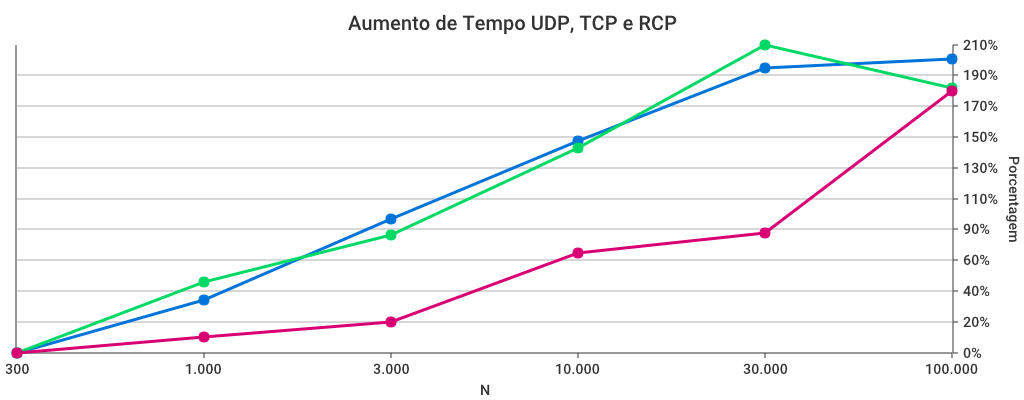
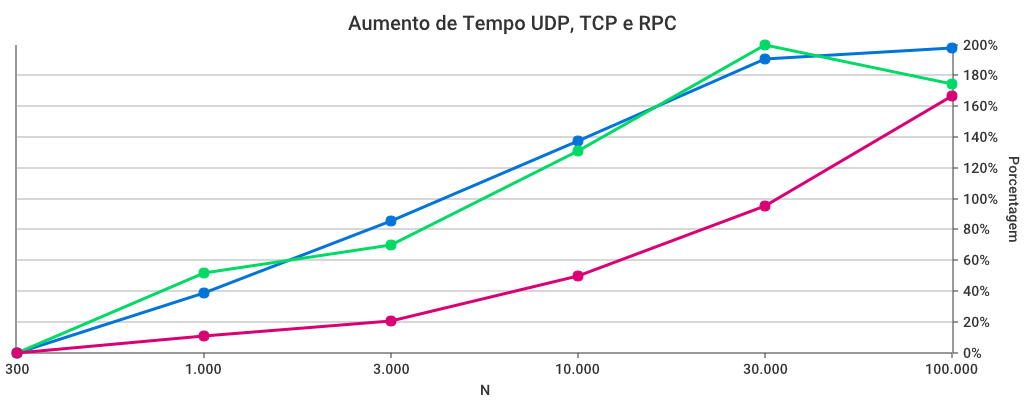
fix: Nome errado nos gráficos

diff --git a/exercicio4/graphs/graph.go b/exercicio4/graphs/graph.go
@@ -25,7 +25,7 @@ func Run() {
 	fmt.Print("Choose how many iterations: ")
 	fmt.Scan(&iterations)
 
-	names := []string{"UDP", "TCP", "RCP"}
+	names := []string{"UDP", "TCP", "RPC"}
 	//functions := []func(int, string) ([]int, time.Duration){client.sendMessageUDP, client.sendMessageTCP}
 	testNs1 := []int{300, 1000, 3000}
 	testNs2 := []int{10000, 30000, 100000}
